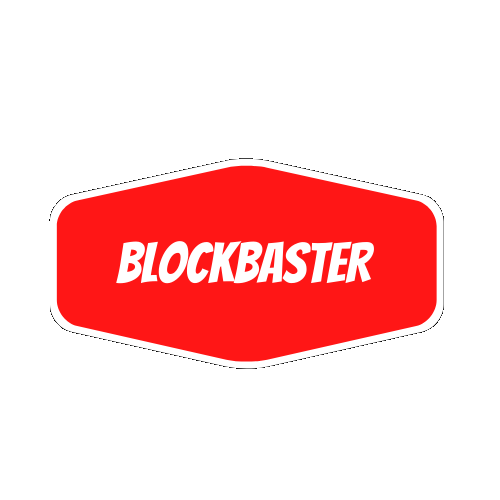
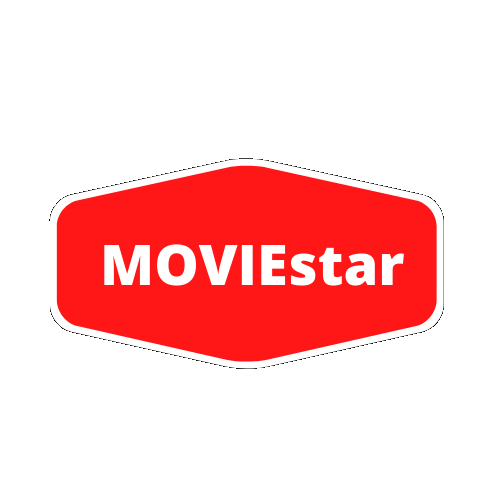
updates

Changed region(s): [[0.21, 0.48, 0.81, 0.57]]

diff --git a/README.md b/README.md
@@ -1,14 +1,11 @@
-## BlockBaster - Movies site
+## MOVIEstar - Movies site
 
 https://blockbaster.netlify.app/
 
 
-#### Catalog screenshot
-![alt text](src/images/main.png "Login Page screenshot")
-#### Movie Page screenshot
-![alt text](src/images/moviepage.png "Overview Page screenshot")
-#### My List screenshot
-![alt text](src/images/mylist.png "Contacts Page screenshot")
+#### MOVIEstar screenshots
+![alt text](src/images/Mac-movieStar.png)
+
 
 
 ### Built With:
